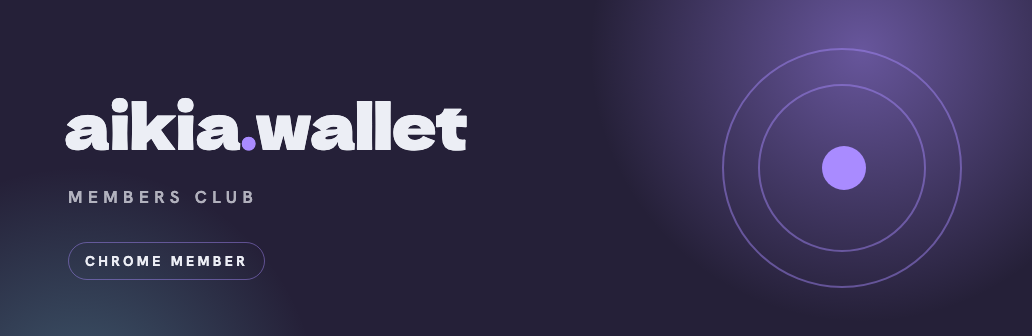
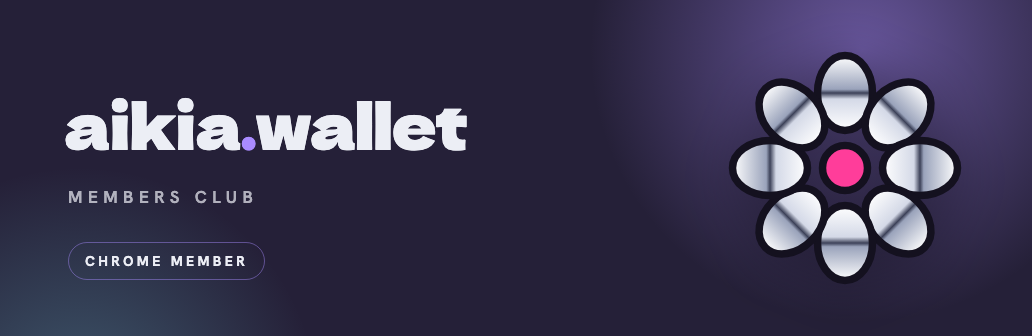
Use the AIKIA ring mark on wallet cards; add PassKit branding script
- Logo and Ink/Chrome/Pink hero banners now use the ring mark from the aikia.wrld site
- scripts/passkit-brand.mjs applies tier colours, logo and hero via the PassKit
  templates/images API (Google-facing parts only), with --dry-run

Changed region(s): [[0.6822, 0.119, 0.9302, 0.8631]]

diff --git a/docs/brand-source/hero.html b/docs/brand-source/hero.html
@@ -5,6 +5,7 @@ html,body{margin:0;width:1032px;height:336px;overflow:hidden}
 .c{position:relative;width:1032px;height:336px;background:var(--bg);overflow:hidden;font-family:'Hanken Grotesk',sans-serif;color:var(--fg)}
 .g1{position:absolute;width:620px;height:620px;right:-140px;top:-260px;border-radius:50%;background:radial-gradient(circle,var(--glow1) 0%,transparent 62%)}
 .g2{position:absolute;width:520px;height:520px;left:-180px;bottom:-330px;border-radius:50%;background:radial-gradient(circle,var(--glow2) 0%,transparent 65%)}
+.mk{position:absolute;right:62px;top:50%;transform:translateY(-50%);width:250px;height:250px;filter:drop-shadow(0 10px 30px rgba(0,0,0,.35))}
 .ring{position:absolute;right:70px;top:50%;transform:translateY(-50%);width:236px;height:236px;border-radius:50%;border:2px solid var(--line)}
 .ring:after{content:"";position:absolute;inset:34px;border-radius:50%;border:2px solid var(--line)}
 .dot{position:absolute;right:166px;top:50%;width:44px;height:44px;margin-top:-22px;border-radius:50%;background:var(--dot)}
@@ -12,7 +13,7 @@ html,body{margin:0;width:1032px;height:336px;overflow:hidden}
 .word span{color:var(--acc)}
 .tag{position:absolute;left:68px;top:186px;font-size:17px;letter-spacing:.32em;text-transform:uppercase;color:var(--muted);font-weight:600}
 .tier{position:absolute;left:68px;bottom:56px;padding:9px 16px;border-radius:99px;border:1.5px solid var(--line);font-size:14px;letter-spacing:.24em;font-weight:700}
-</style></head><body><div class="c" id="c"><div class="g1"></div><div class="g2"></div><div class="ring"></div><div class="dot"></div>
+</style></head><body><div class="c" id="c"><div class="g1"></div><div class="g2"></div><svg width="0" height="0" style="position:absolute"><defs><linearGradient id="chr" x1="0" y1="0" x2="0" y2="1"><stop offset="0" stop-color="#ffffff"/><stop offset=".45" stop-color="#9aa3bb"/><stop offset=".5" stop-color="#3c4158"/><stop offset=".58" stop-color="#d4d9e7"/><stop offset="1" stop-color="#ffffff"/></linearGradient><symbol id="mark" viewBox="-50 -50 100 100"><g stroke="#14111F" stroke-width="3" fill="url(#chr)"><ellipse cx="0" cy="-30" rx="11" ry="15"/><ellipse cx="0" cy="-30" rx="11" ry="15" transform="rotate(45)"/><ellipse cx="0" cy="-30" rx="11" ry="15" transform="rotate(90)"/><ellipse cx="0" cy="-30" rx="11" ry="15" transform="rotate(135)"/><ellipse cx="0" cy="-30" rx="11" ry="15" transform="rotate(180)"/><ellipse cx="0" cy="-30" rx="11" ry="15" transform="rotate(225)"/><ellipse cx="0" cy="-30" rx="11" ry="15" transform="rotate(270)"/><ellipse cx="0" cy="-30" rx="11" ry="15" transform="rotate(315)"/></g><circle r="9" fill="#FF3D9A" stroke="#14111F" stroke-width="3"/></symbol></defs></svg><svg class="mk" viewBox="0 0 100 100"><use href="#mark" width="100" height="100"/></svg>
 <div class="word">aikia<span>.</span>wallet</div><div class="tag">Members club</div><div class="tier" id="t"></div></div>
 <script>
 const p=new URLSearchParams(location.search).get('tier')||'ink';

diff --git a/docs/brand-source/logo.html b/docs/brand-source/logo.html
@@ -1,3 +1,2 @@
-<!doctype html><html><head><meta charset="utf-8"><link href="https://fonts.googleapis.com/css2?family=Hanken+Grotesk:wght@600&display=block" rel="stylesheet">
-<style>html,body{margin:0;width:660px;height:660px;background:#14111F;overflow:hidden}.d{position:absolute;left:92px;top:92px;width:476px;height:476px;border-radius:50%;background:#FF3D9A;display:flex;align-items:center;justify-content:center;font:600 330px/1 'Hanken Grotesk',sans-serif;color:#14111F;padding-bottom:40px;box-sizing:border-box}</style></head>
-<body><div class="d">a</div></body></html>
+<!doctype html><html><head><meta charset="utf-8"><style>html,body{margin:0;width:660px;height:660px;background:#14111F;overflow:hidden}svg.m{position:absolute;left:110px;top:110px;width:440px;height:440px}</style></head>
+<body><svg width="0" height="0" style="position:absolute"><defs><linearGradient id="chr" x1="0" y1="0" x2="0" y2="1"><stop offset="0" stop-color="#ffffff"/><stop offset=".45" stop-color="#9aa3bb"/><stop offset=".5" stop-color="#3c4158"/><stop offset=".58" stop-color="#d4d9e7"/><stop offset="1" stop-color="#ffffff"/></linearGradient><symbol id="mark" viewBox="-50 -50 100 100"><g stroke="#14111F" stroke-width="3" fill="url(#chr)"><ellipse cx="0" cy="-30" rx="11" ry="15"/><ellipse cx="0" cy="-30" rx="11" ry="15" transform="rotate(45)"/><ellipse cx="0" cy="-30" rx="11" ry="15" transform="rotate(90)"/><ellipse cx="0" cy="-30" rx="11" ry="15" transform="rotate(135)"/><ellipse cx="0" cy="-30" rx="11" ry="15" transform="rotate(180)"/><ellipse cx="0" cy="-30" rx="11" ry="15" transform="rotate(225)"/><ellipse cx="0" cy="-30" rx="11" ry="15" transform="rotate(270)"/><ellipse cx="0" cy="-30" rx="11" ry="15" transform="rotate(315)"/></g><circle r="9" fill="#FF3D9A" stroke="#14111F" stroke-width="3"/></symbol></defs></svg><svg class="m" viewBox="0 0 100 100"><use href="#mark" width="100" height="100"/></svg></body></html>
